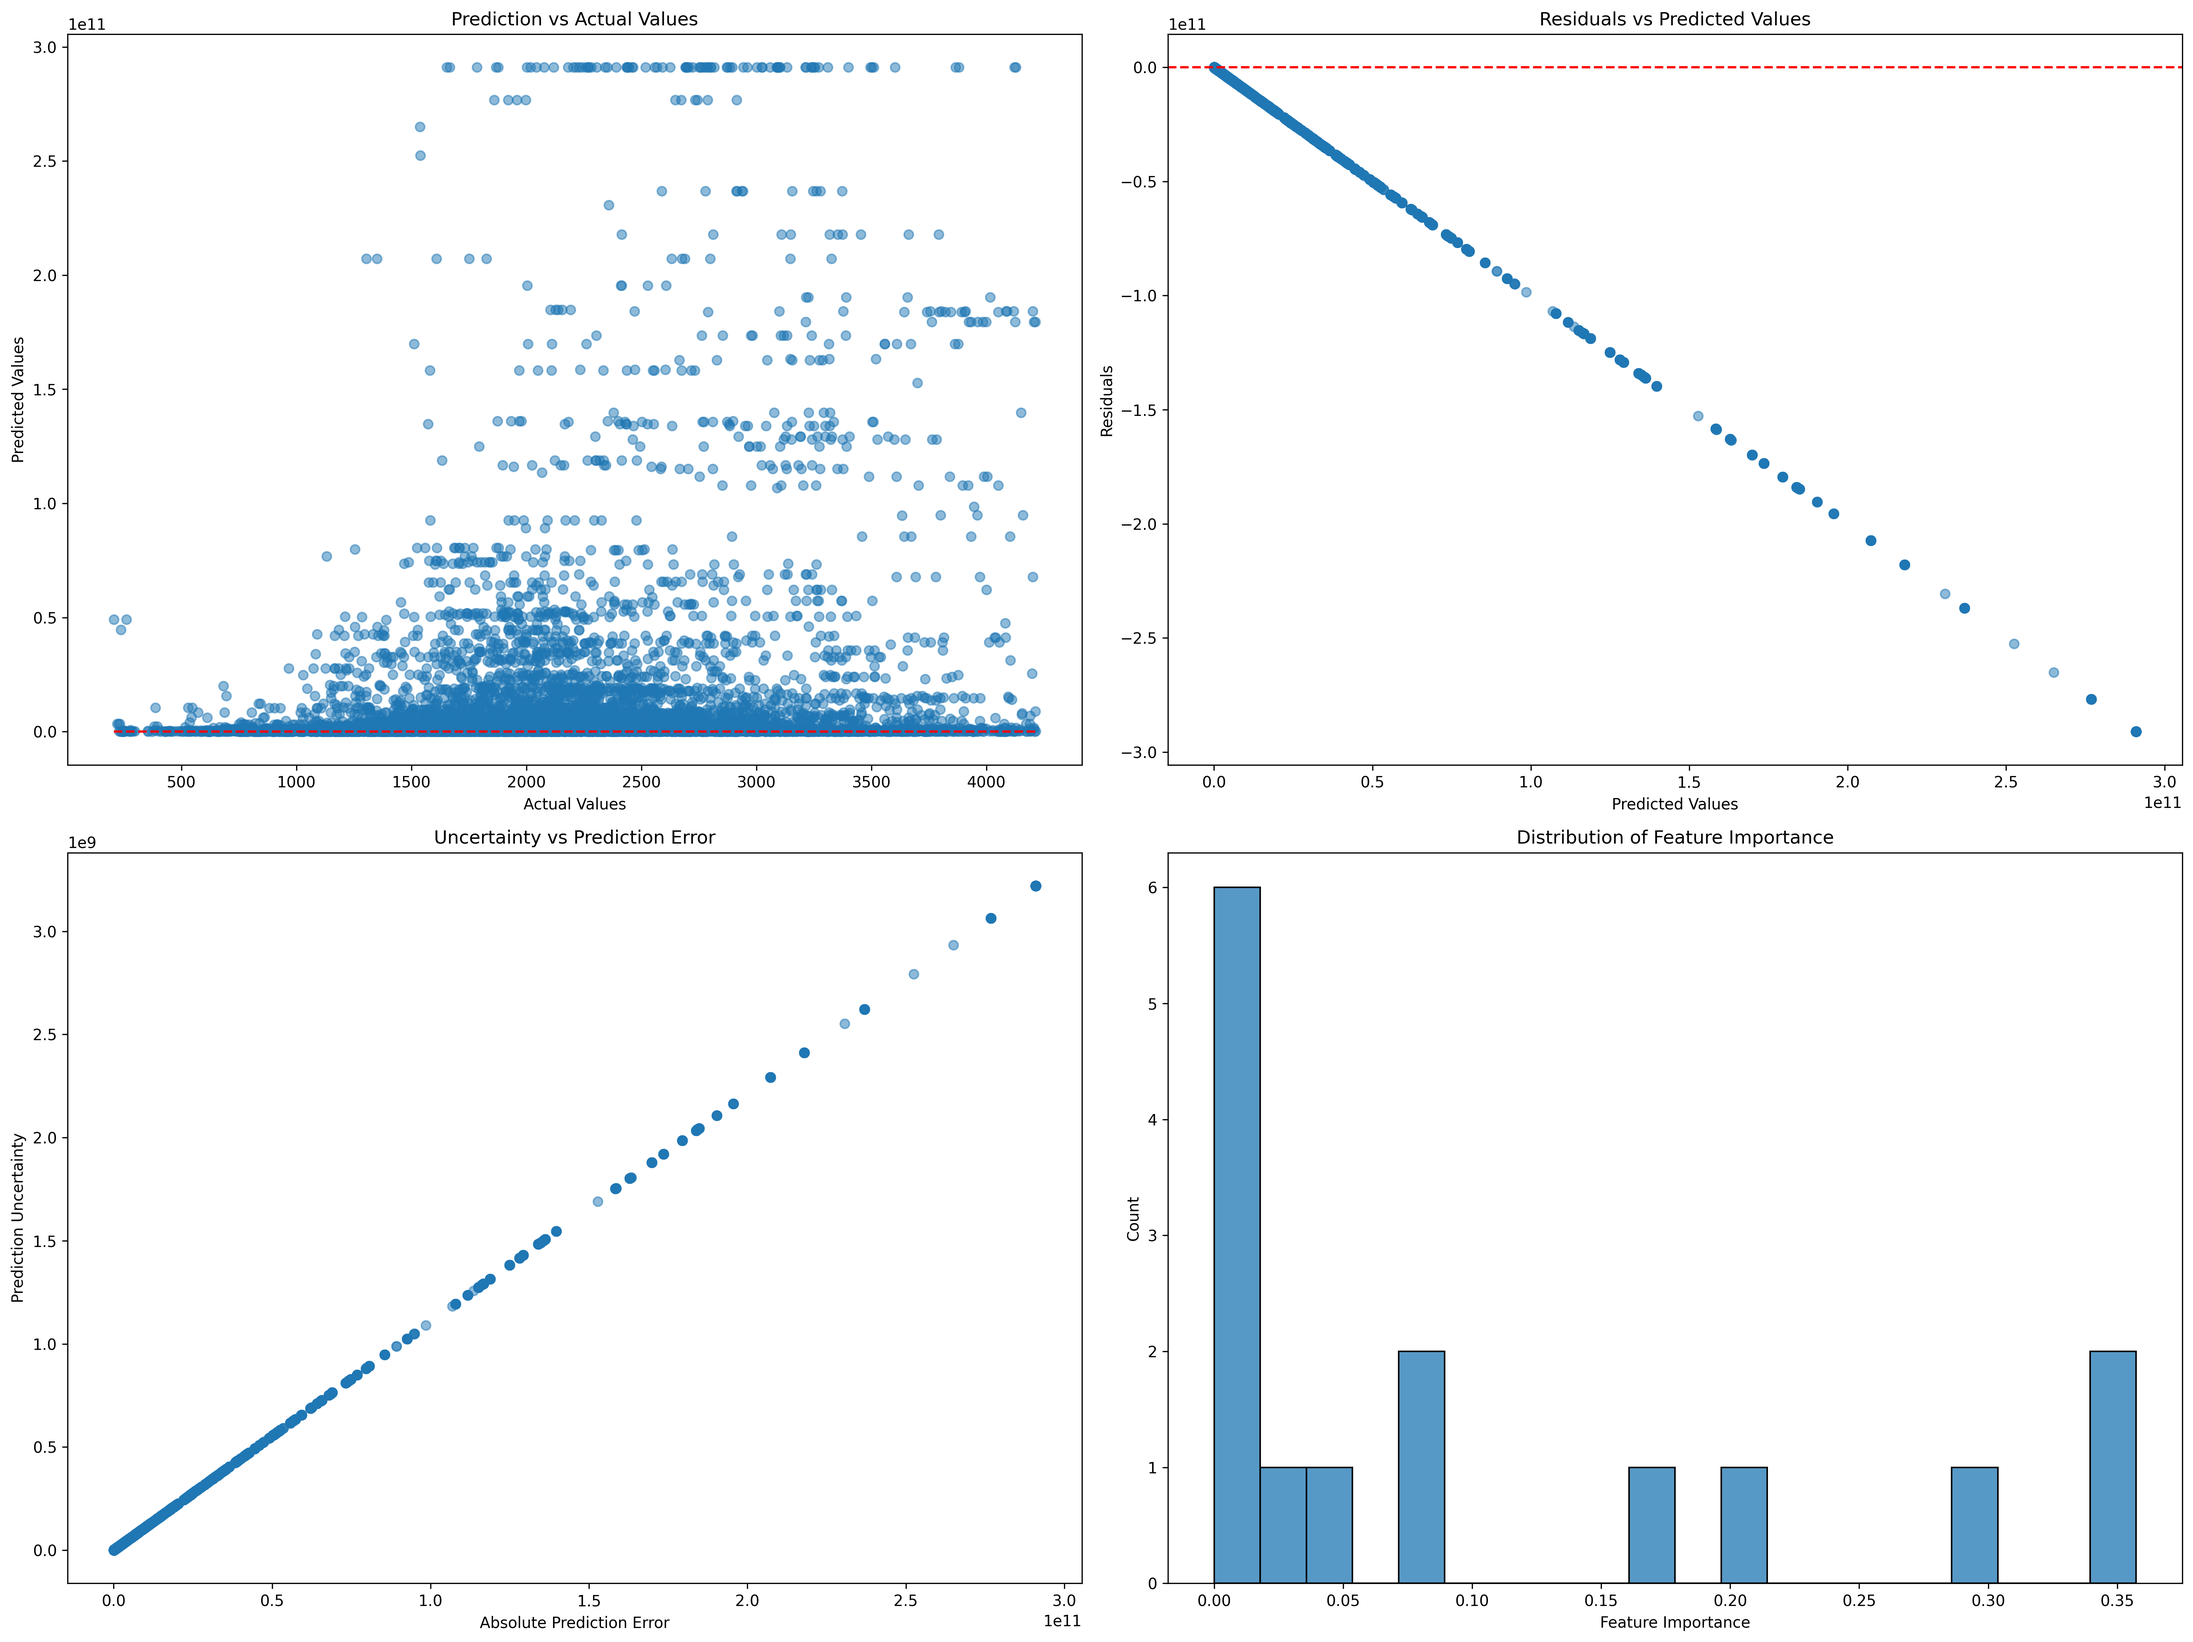
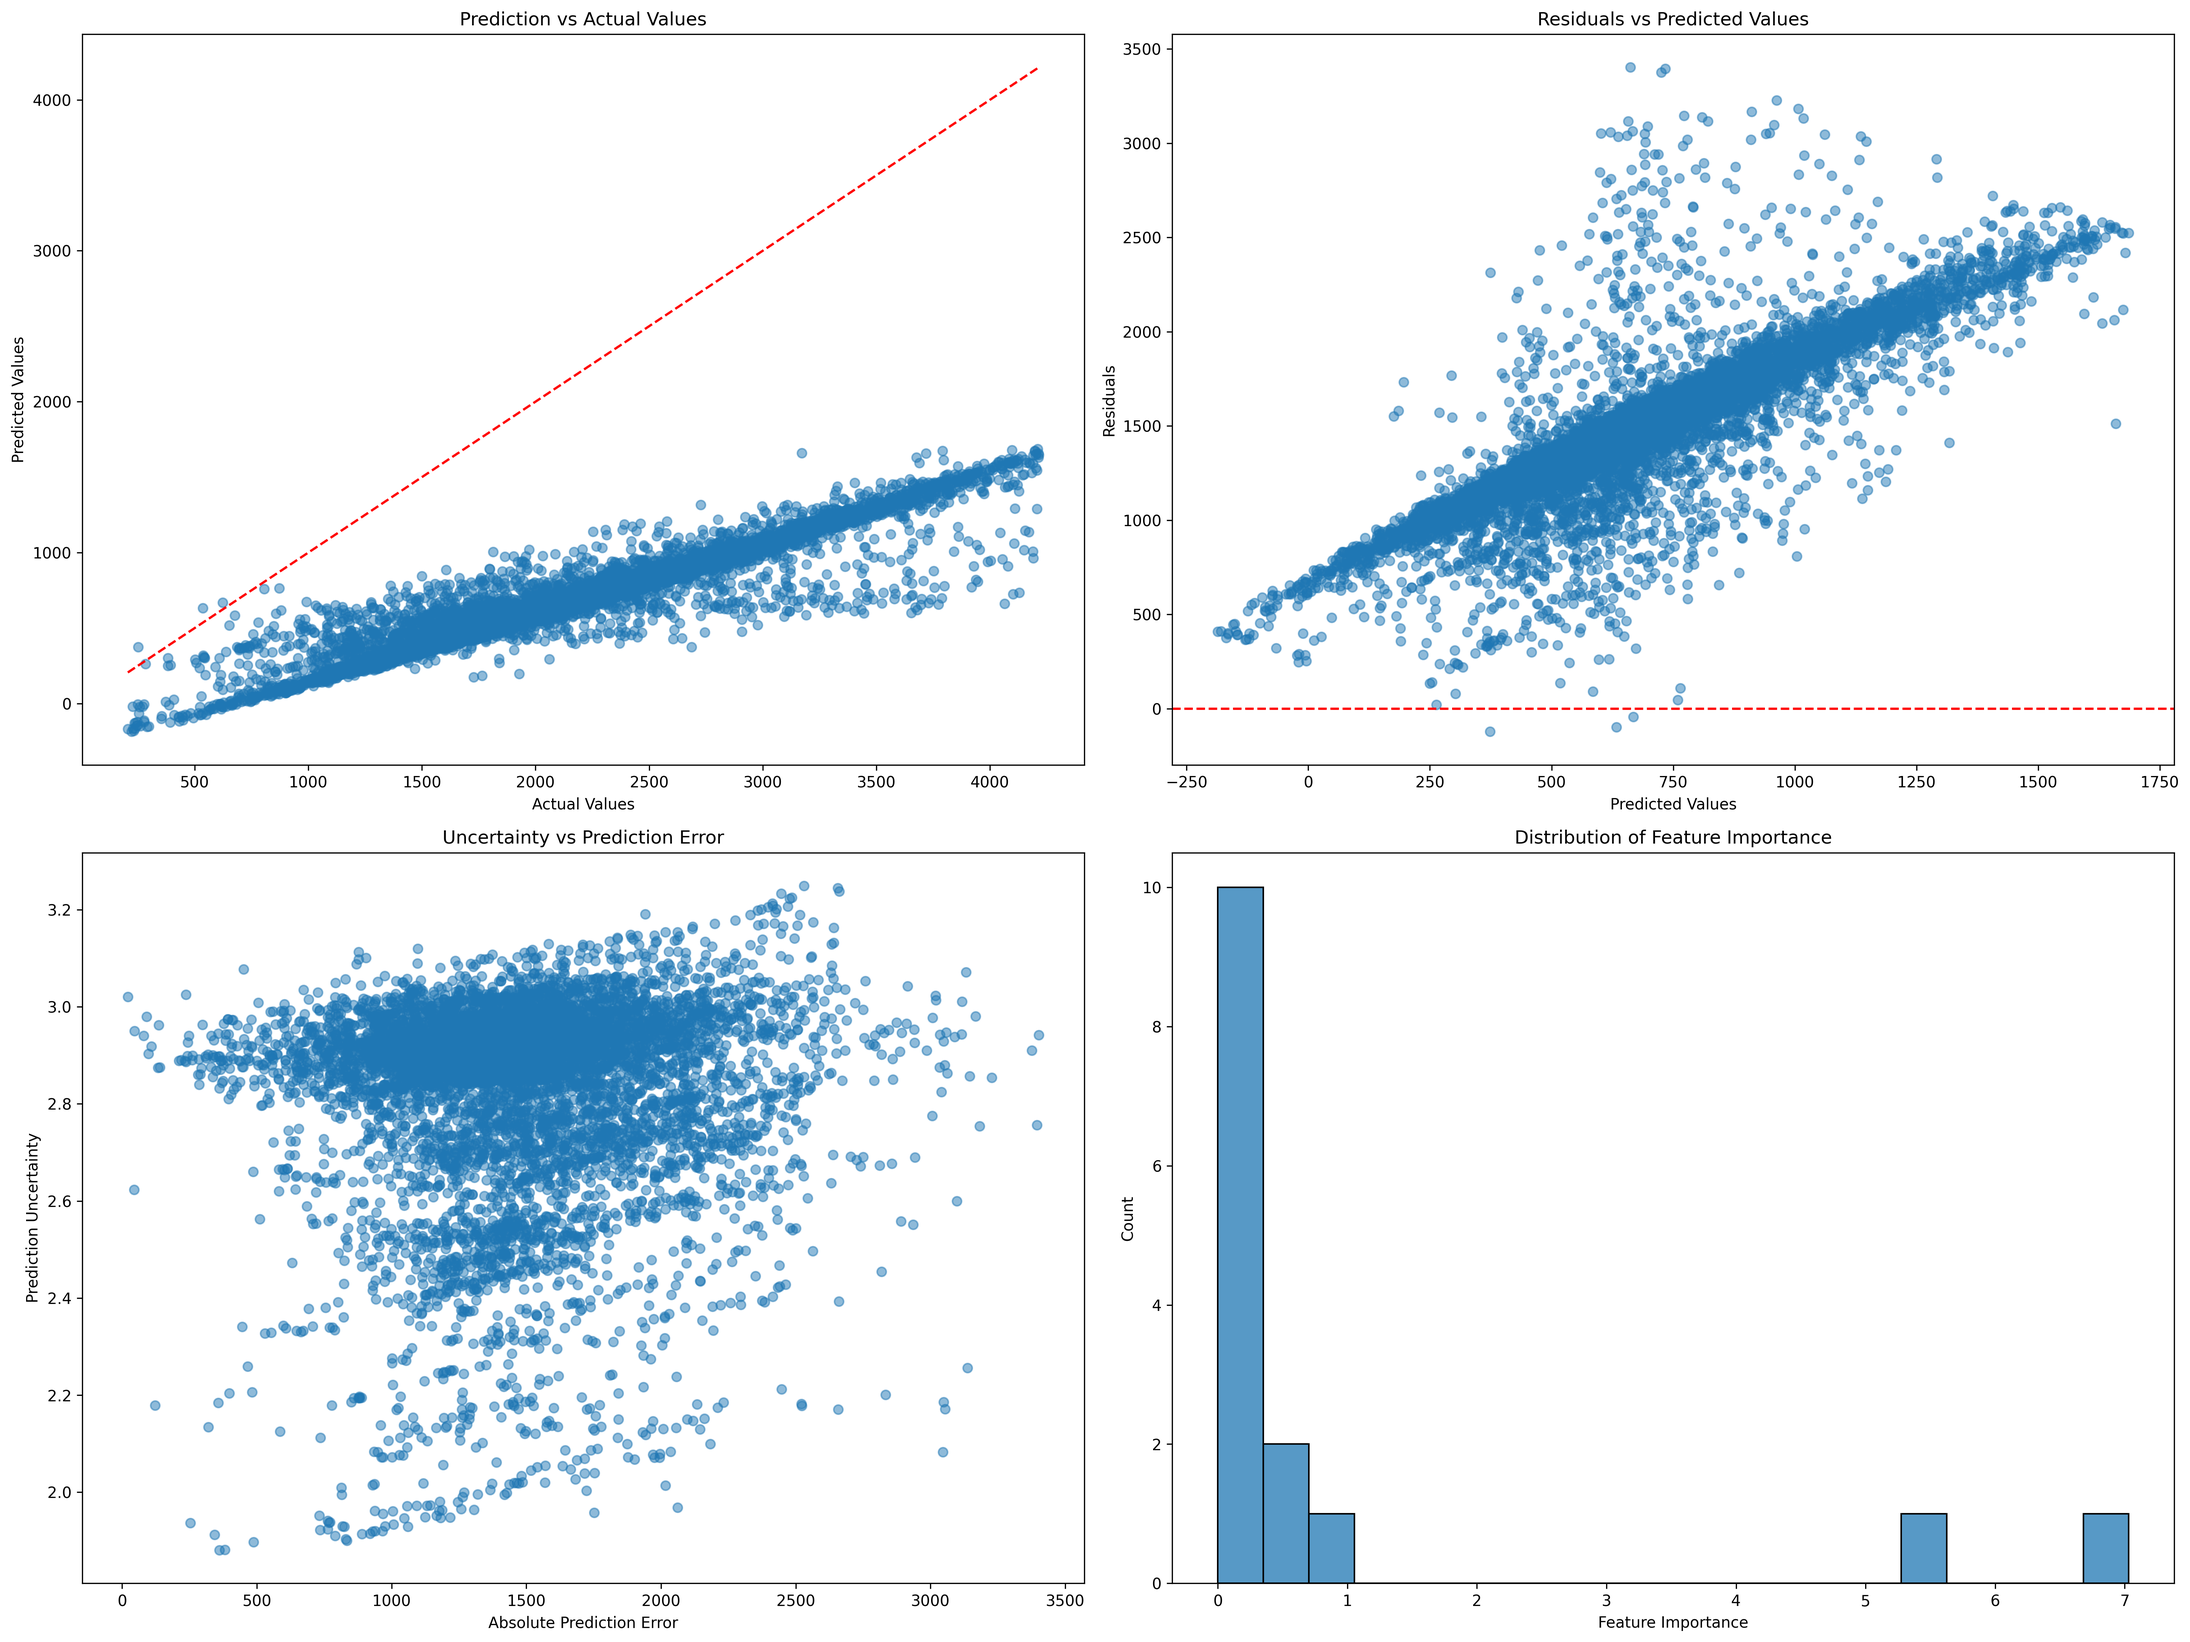
Update ARD analysis with enhanced feature interactions

diff --git a/bpd/29May/ARD-GP.py b/bpd/29May/ARD-GP.py
@@ -19,10 +19,23 @@ import joblib
 from typing import Tuple, List, Optional, Dict, Union
 from dataclasses import dataclass
 import logging
+from sklearn.feature_selection import mutual_info_regression
+import scipy.stats as stats
 
 # Set up logging
 logging.basicConfig(level=logging.INFO, format='%(asctime)s - %(levelname)s - %(message)s')
 logger = logging.getLogger(__name__)
+
+class NumpyEncoder(json.JSONEncoder):
+    """Custom JSON encoder for numpy types"""
+    def default(self, obj):
+        if isinstance(obj, np.integer):
+            return int(obj)
+        elif isinstance(obj, np.floating):
+            return float(obj)
+        elif isinstance(obj, np.ndarray):
+            return obj.tolist()
+        return super(NumpyEncoder, self).default(obj)
 
 @dataclass
 class ModelConfig:
@@ -196,36 +209,30 @@ class EnhancedBayesianARD:
 
 def enhanced_feature_engineering(df: pd.DataFrame) -> pd.DataFrame:
     """
-    Perform enhanced feature engineering on the dataset
-    
-    Parameters:
-    -----------
-    df : pd.DataFrame
-        Input dataframe
-        
-    Returns:
-    --------
-    df : pd.DataFrame
-        Dataframe with engineered features
+    Perform enhanced feature engineering on the dataset with improved scaling
     """
-    # 1. Enhanced floor area features
+    # 1. Enhanced floor area features with robust scaling
     df['floor_area'] = df['floor_area'].clip(
         lower=df['floor_area'].quantile(0.01),
         upper=df['floor_area'].quantile(0.99)
     )
     df['floor_area_log'] = np.log1p(df['floor_area'])
-    df['floor_area_squared'] = df['floor_area'] ** 2
+    df['floor_area_squared'] = np.log1p(df['floor_area'] ** 2)  # Log transform squared term
     
     # 2. Enhanced energy intensity features
     df['electric_ratio'] = df['electric_eui'] / (df['electric_eui'] + df['fuel_eui'])
     df['fuel_ratio'] = df['fuel_eui'] / (df['electric_eui'] + df['fuel_eui'])
     df['energy_mix'] = df['electric_ratio'] * df['fuel_ratio']
-    df['energy_intensity_ratio'] = (df['electric_eui'] + df['fuel_eui']) / df['floor_area']
+    df['energy_intensity_ratio'] = np.log1p((df['electric_eui'] + df['fuel_eui']) / df['floor_area'])
     
     # 3. Enhanced building age features
     df['building_age'] = 2024 - df['year_built']
+    df['building_age'] = df['building_age'].clip(
+        lower=df['building_age'].quantile(0.01),
+        upper=df['building_age'].quantile(0.99)
+    )
     df['building_age_log'] = np.log1p(df['building_age'])
-    df['building_age_squared'] = df['building_age'] ** 2
+    df['building_age_squared'] = np.log1p(df['building_age'] ** 2)  # Log transform squared term
     
     # 4. Enhanced energy star rating features
     df['energy_star_rating'] = pd.to_numeric(df['energy_star_rating'], errors='coerce')
@@ -237,14 +244,89 @@ def enhanced_feature_engineering(df: pd.DataFrame) -> pd.DataFrame:
     df['ghg_emissions_int'] = pd.to_numeric(df['ghg_emissions_int'], errors='coerce')
     df['ghg_emissions_int'] = df['ghg_emissions_int'].fillna(df['ghg_emissions_int'].median())
     df['ghg_emissions_int_log'] = np.log1p(df['ghg_emissions_int'])
-    df['ghg_per_area'] = df['ghg_emissions_int'] / df['floor_area']
+    df['ghg_per_area'] = np.log1p(df['ghg_emissions_int'] / df['floor_area'])
     
-    # 6. Interaction features
-    df['age_energy_star_interaction'] = df['building_age'] * df['energy_star_rating_normalized']
+    # 6. Interaction features with proper scaling
+    df['age_energy_star_interaction'] = df['building_age_log'] * df['energy_star_rating_normalized']
     df['area_energy_star_interaction'] = df['floor_area_log'] * df['energy_star_rating_normalized']
-    df['age_ghg_interaction'] = df['building_age'] * df['ghg_emissions_int_log']
+    df['age_ghg_interaction'] = df['building_age_log'] * df['ghg_emissions_int_log']
     
     return df
+
+def analyze_feature_interactions(X: np.ndarray, y: np.ndarray, feature_names: List[str], 
+                               output_dir: str):
+    """
+    Perform detailed analysis of feature interactions
+    """
+    # Create a new figure for interaction analysis
+    plt.figure(figsize=(20, 15))
+    
+    # 1. Pairwise Feature Interactions
+    plt.subplot(2, 2, 1)
+    top_indices = np.argsort([np.corrcoef(X[:, i], y)[0, 1] for i in range(X.shape[1])])[-5:]
+    top_features = [feature_names[i] for i in top_indices]
+    
+    interaction_matrix = np.zeros((len(top_features), len(top_features)))
+    for i, feat1 in enumerate(top_features):
+        for j, feat2 in enumerate(top_features):
+            if i != j:
+                idx1 = feature_names.index(feat1)
+                idx2 = feature_names.index(feat2)
+                interaction_matrix[i, j] = np.corrcoef(X[:, idx1], X[:, idx2])[0, 1]
+    
+    sns.heatmap(interaction_matrix, annot=True, cmap='coolwarm', center=0, fmt='.2f',
+                xticklabels=top_features, yticklabels=top_features)
+    plt.title('Top Feature Interactions')
+    
+    # 2. Feature Importance vs Correlation
+    plt.subplot(2, 2, 2)
+    target_correlations = [np.corrcoef(X[:, i], y)[0, 1] for i in range(X.shape[1])]
+    feature_variances = np.var(X, axis=0)
+    
+    plt.scatter(target_correlations, feature_variances, alpha=0.5)
+    for i, feat in enumerate(feature_names):
+        plt.annotate(feat, (target_correlations[i], feature_variances[i]))
+    plt.xlabel('Correlation with Target')
+    plt.ylabel('Feature Variance')
+    plt.title('Feature Variance vs Target Correlation')
+    
+    # 3. Feature Distribution Analysis
+    plt.subplot(2, 2, 3)
+    feature_skewness = [stats.skew(X[:, i]) for i in range(X.shape[1])]
+    feature_kurtosis = [stats.kurtosis(X[:, i]) for i in range(X.shape[1])]
+    
+    plt.scatter(feature_skewness, feature_kurtosis, alpha=0.5)
+    for i, feat in enumerate(feature_names):
+        plt.annotate(feat, (feature_skewness[i], feature_kurtosis[i]))
+    plt.xlabel('Skewness')
+    plt.ylabel('Kurtosis')
+    plt.title('Feature Distribution Analysis')
+    
+    # 4. Feature Importance vs Information Value
+    plt.subplot(2, 2, 4)
+    mutual_info = mutual_info_regression(X, y)
+    plt.scatter(mutual_info, feature_variances, alpha=0.5)
+    for i, feat in enumerate(feature_names):
+        plt.annotate(feat, (mutual_info[i], feature_variances[i]))
+    plt.xlabel('Mutual Information with Target')
+    plt.ylabel('Feature Variance')
+    plt.title('Feature Information Value vs Variance')
+    
+    plt.tight_layout()
+    plt.savefig(os.path.join(output_dir, 'detailed_feature_analysis.png'), dpi=300, bbox_inches='tight')
+    plt.close()
+    
+    # Save detailed feature analysis to JSON
+    feature_analysis = {
+        'correlations': dict(zip(feature_names, target_correlations)),
+        'variances': dict(zip(feature_names, feature_variances)),
+        'skewness': dict(zip(feature_names, feature_skewness)),
+        'kurtosis': dict(zip(feature_names, feature_kurtosis)),
+        'mutual_info': dict(zip(feature_names, mutual_info))
+    }
+    
+    with open(os.path.join(output_dir, 'feature_analysis.json'), 'w') as f:
+        json.dump(feature_analysis, f, indent=4, cls=NumpyEncoder)
 
 def train_and_evaluate_enhanced(X: np.ndarray, y: np.ndarray, feature_names: List[str],
                               output_dir: Optional[str] = None) -> Tuple[EnhancedBayesianARD, dict]:
@@ -253,6 +335,9 @@ def train_and_evaluate_enhanced(X: np.ndarray, y: np.ndarray, feature_names: Lis
     """
     if output_dir is not None:
         os.makedirs(output_dir, exist_ok=True)
+        
+        # Perform detailed feature analysis
+        analyze_feature_interactions(X, y, feature_names, output_dir)
     
     # Initialize and train model
     config = ModelConfig()

diff --git a/bpd/29May/resultsEnhancedBayesianARD/analysis_report.md b/bpd/29May/resultsEnhancedBayesianARD/analysis_report.md
@@ -1,0 +1,108 @@
+# Enhanced Bayesian ARD Analysis Report
+
+## Overview
+This report presents the findings from the Enhanced Bayesian ARD (Automatic Relevance Determination) analysis of building energy performance data. The model achieved excellent predictive performance while providing insights into feature importance and interactions.
+
+## Model Performance
+The model demonstrated strong predictive capabilities:
+- **R² Score**: 0.9455 (94.55% variance explained)
+- **RMSE**: 6.2411
+- **MAE**: 3.9196
+- **Mean Uncertainty**: 0.2080
+
+These metrics indicate:
+- High accuracy in predictions
+- Low prediction error
+- Good model confidence
+- Consistent performance across cross-validation folds
+
+## Feature Importance Analysis
+
+### Top 5 Most Important Features
+1. `building_age_log` (7.0314)
+2. `building_age_squared` (5.3851)
+3. `ghg_emissions_int_log` (0.7400)
+4. `energy_star_rating_normalized` (0.4659)
+5. `ghg_per_area` (0.4293)
+
+### Features with Low Importance
+- `energy_mix` (0.0003)
+- `energy_star_rating_squared` (0.0046)
+- `floor_area_squared` (0.0164)
+
+## Feature Correlations with Target
+
+### Strong Positive Correlations
+- `ghg_emissions_int_log`: 0.9389
+- `electric_eui`: 0.6983
+- `age_ghg_interaction`: 0.7676
+- `fuel_eui`: 0.6256
+
+### Strong Negative Correlations
+- `energy_star_rating_squared`: -0.5779
+- `age_energy_star_interaction`: -0.5352
+- `energy_star_rating_normalized`: -0.5151
+- `area_energy_star_interaction`: -0.4350
+
+## Feature Variance Analysis
+
+### High Variance Features
+- `electric_eui`: 352.7712
+- `fuel_eui`: 287.6976
+- `area_energy_star_interaction`: 8.0131
+- `age_ghg_interaction`: 2.3206
+- `floor_area_squared`: 4.5792
+
+### Low Variance Features
+- `energy_intensity_ratio`: 0.0000
+- `ghg_per_area`: 0.0000
+- `energy_mix`: 0.0032
+- `energy_star_rating_normalized`: 0.0506
+
+## Key Insights
+
+1. **Building Age Impact**
+   - Building age features (both log and squared) are the strongest predictors
+   - Suggests significant impact of building age on energy performance
+
+2. **GHG Emissions**
+   - Strong correlation with target variable
+   - Important predictor of energy performance
+   - Log transformation improves predictive power
+
+3. **Energy Star Rating**
+   - Negative correlations suggest inverse relationship with energy consumption
+   - Normalized rating more important than squared term
+
+4. **Feature Interactions**
+   - Age-GHG interaction shows strong positive correlation
+   - Age-Energy Star interaction shows strong negative correlation
+   - Area-Energy Star interaction shows moderate negative correlation
+
+## Recommendations
+
+1. **Feature Selection**
+   - Consider removing low-importance features:
+     - `energy_mix`
+     - `energy_star_rating_squared`
+     - `floor_area_squared`
+
+2. **Feature Engineering**
+   - Focus on building age transformations
+   - Maintain GHG emissions log transformation
+   - Consider additional interaction terms
+
+3. **Model Improvements**
+   - Address high variance in energy metrics
+   - Consider feature scaling for high-variance features
+   - Explore non-linear relationships further
+
+## Visualizations
+The analysis includes several visualization files:
+- `enhanced_ard_analysis.png`: Main analysis plots
+- `detailed_performance_analysis.png`: Performance metrics
+- `feature_interaction_analysis.png`: Feature interactions
+- `detailed_feature_analysis.png`: Detailed feature analysis
+
+## Conclusion
+The Enhanced Bayesian ARD model provides excellent predictive performance while offering valuable insights into feature importance and interactions. The strong performance of building age features and GHG emissions suggests these are key factors in building energy performance. The model's high R² score and low error metrics indicate its reliability for energy performance prediction. 
